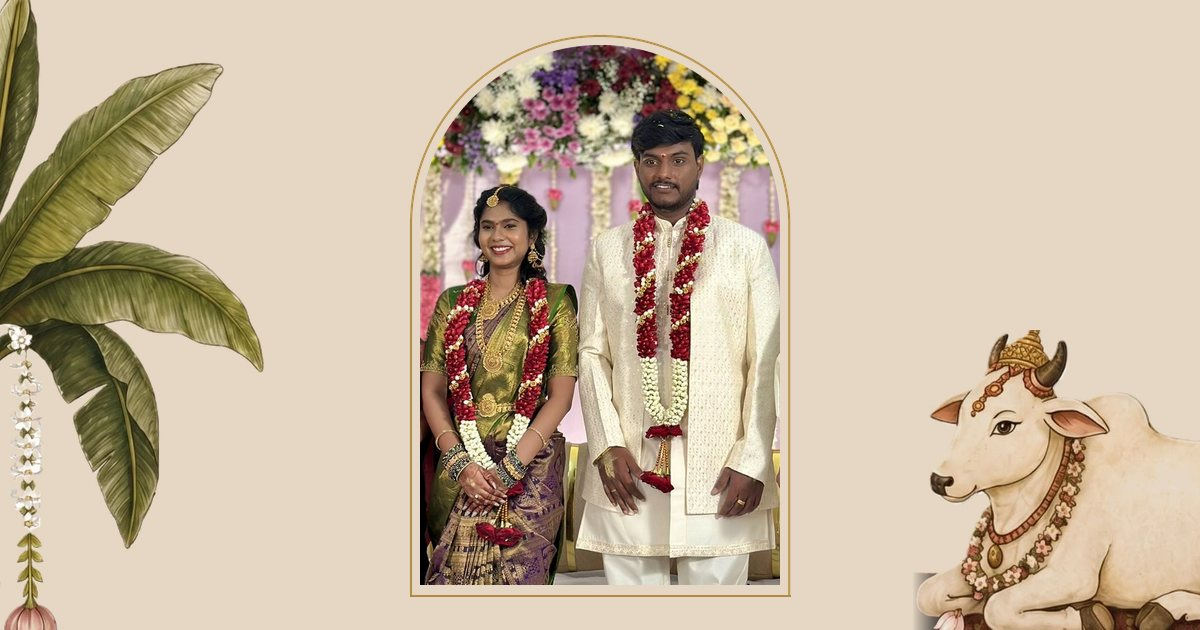
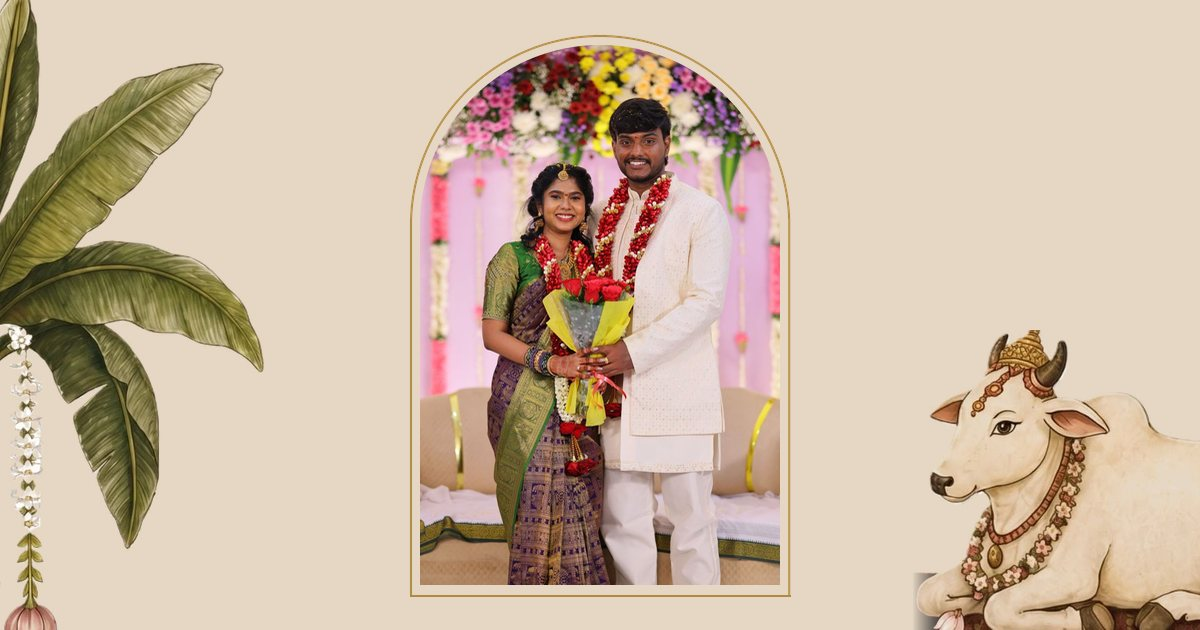
Use the bouquet photo as the main photo
- New main photo in the invitation arch and in the WhatsApp link preview
- The previous main photo moves to the end of the gallery

Changed region(s): [[0.3392, 0.0603, 0.6475, 0.9349]]

diff --git a/content.js b/content.js
@@ -32,6 +32,7 @@ window.INVITE = {
     { src: "assets/photos/gallery/04.jpg", alt: "Vinod Sai placing a ring on Rishitha's open palm" },
     { src: "assets/photos/gallery/05.jpg", alt: "Vinod Sai kneeling to give Rishitha a bouquet" },
     { src: "assets/photos/gallery/06.jpg", alt: "Vinod Sai smiling, wearing a rose and jasmine garland" },
+    { src: "assets/photos/gallery/07.jpg", alt: "Rishitha and Vinod Sai, garlanded, in front of the flower backdrop" },
   ],
 
   // "Traditional wedding ceremonial vibe with shehnai" by DesiFreeMusic,
@@ -55,7 +56,7 @@ window.INVITE = {
       groomHonorific: "Chi.",
       groomFull: "M. Vinod Sai",
       groomIntro: "B.Tech., MBA (IIM Shillong)\nSenior Manager, JSW",
-      photoAlt: "Rishitha and Vinod Sai, garlanded, standing in front of a flower backdrop",
+      photoAlt: "Rishitha and Vinod Sai, garlanded, holding a bouquet of red roses",
 
       blessingsTitle: "With the blessings of",
       bridesParentsLabel: "Bride's parents",
@@ -126,7 +127,7 @@ window.INVITE = {
       groomHonorific: "చి॥",
       groomFull: "యం. వినోద్ సాయి",
       groomIntro: "B.Tech., MBA (IIM Shillong)\nSr. Manager, JSW",
-      photoAlt: "పూలమాలలతో రిషిత మరియు వినోద్ సాయి",
+      photoAlt: "పూలమాలలతో, ఎర్ర గులాబీల గుత్తితో రిషిత మరియు వినోద్ సాయి",
 
       blessingsTitle: "పెద్దల ఆశీస్సులతో",
       bridesParentsLabel: "వధువు తల్లిదండ్రులు",

diff --git a/index.html b/index.html
@@ -95,7 +95,7 @@
       </div>
 
       <figure class="portrait">
-        <img src="assets/photos/couple.jpg" data-t-alt="photoAlt" alt="Rishitha and Vinod Sai, garlanded, standing in front of a flower backdrop" width="576" height="1240" loading="lazy">
+        <img src="assets/photos/couple.jpg" data-t-alt="photoAlt" alt="Rishitha and Vinod Sai, garlanded, holding a bouquet of red roses" width="1000" height="1499" loading="lazy">
       </figure>
     </section>
 
